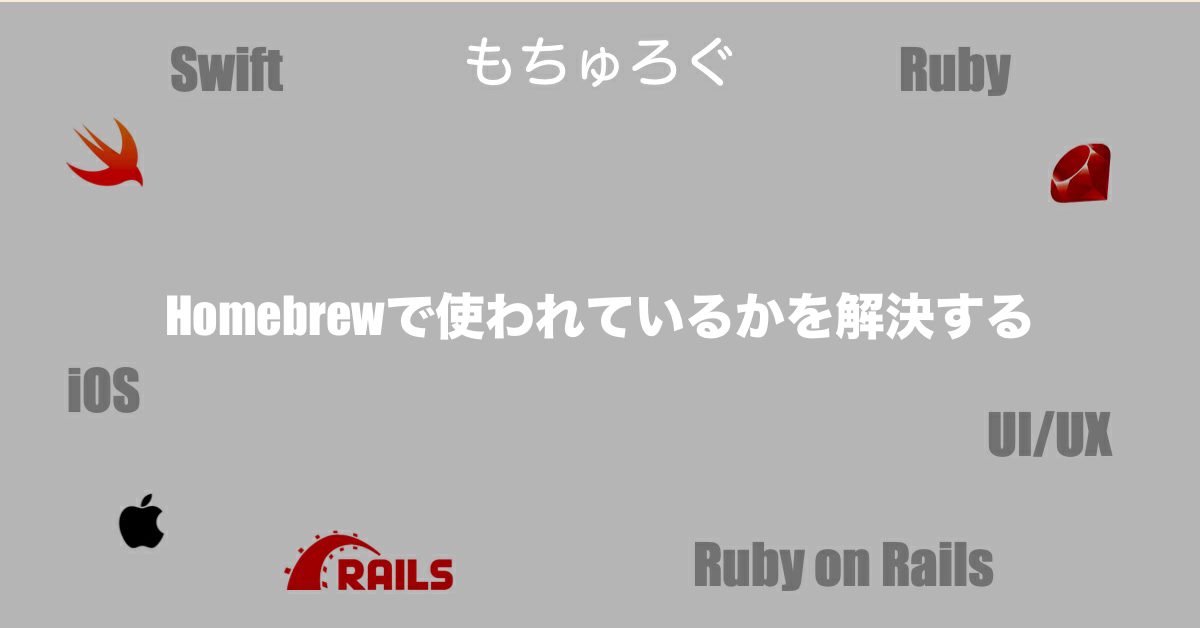
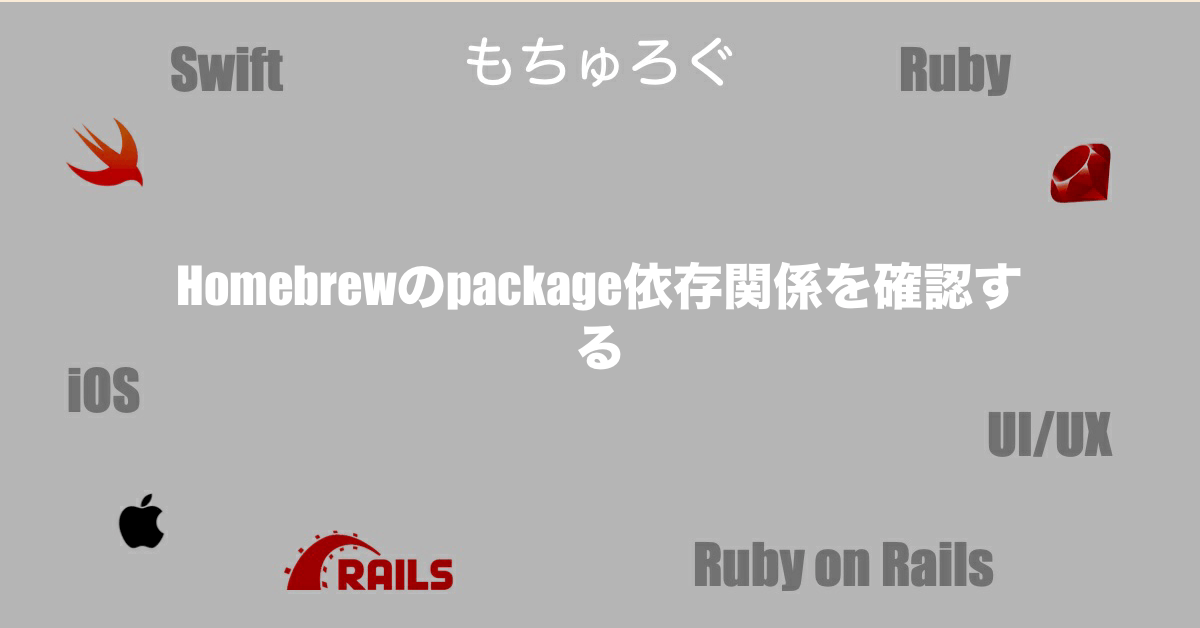
Deploy:

Changed region(s): [[0.1233, 0.3933, 0.8633, 0.6051]]

diff --git a/docs/mac/homebrew/mac-homebrew-uses-installed.html b/docs/mac/homebrew/mac-homebrew-uses-installed.html
@@ -11,12 +11,12 @@
 
 
     
-      <title>Homebrewで使われているかを解決する - もちゅろぐ</title>
+      <title>Homebrewのpackage依存関係を確認する - もちゅろぐ</title>
     
 
     <!-- Begin Jekyll SEO tag v2.5.0 -->
 <meta name="generator" content="Jekyll v3.8.5" />
-<meta property="og:title" content="Homebrewで使われているかを解決する" />
+<meta property="og:title" content="Homebrewのpackage依存関係を確認する" />
 <meta property="og:locale" content="ja_JP" />
 <meta name="description" content="長いことHomebrewに色々とインストールしてると、たまにもう使っていないフォーミュラ（パッケージ）を削除したいなと思いませんか？ $ brew list -l で一覧出して眺めて、「もうこれは使っていないな」と分かるパッケージは消していきますが、 「これ何で入れたんだっけ？」と思うパッケージが結構います。" />
 <meta property="og:description" content="長いことHomebrewに色々とインストールしてると、たまにもう使っていないフォーミュラ（パッケージ）を削除したいなと思いませんか？ $ brew list -l で一覧出して眺めて、「もうこれは使っていないな」と分かるパッケージは消していきますが、 「これ何で入れたんだっけ？」と思うパッケージが結構います。" />
@@ -29,13 +29,13 @@
 <meta name="twitter:card" content="summary_large_image" />
 <meta name="twitter:site" content="@mothule" />
 <script type="application/ld+json">
-{"image":"https://blog.mothule.com/assets/images/2019-07-30-mac-homebrew-uses-installed.png","url":"https://blog.mothule.com/mac/homebrew/mac-homebrew-uses-installed","headline":"Homebrewで使われているかを解決する","dateModified":"2020-02-02T22:50:43+09:00","datePublished":"2019-07-30T00:00:00+09:00","description":"長いことHomebrewに色々とインストールしてると、たまにもう使っていないフォーミュラ（パッケージ）を削除したいなと思いませんか？ $ brew list -l で一覧出して眺めて、「もうこれは使っていないな」と分かるパッケージは消していきますが、 「これ何で入れたんだっけ？」と思うパッケージが結構います。","mainEntityOfPage":{"@type":"WebPage","@id":"https://blog.mothule.com/mac/homebrew/mac-homebrew-uses-installed"},"@type":"BlogPosting","@context":"http://schema.org"}</script>
+{"image":"https://blog.mothule.com/assets/images/2019-07-30-mac-homebrew-uses-installed.png","url":"https://blog.mothule.com/mac/homebrew/mac-homebrew-uses-installed","headline":"Homebrewのpackage依存関係を確認する","dateModified":"2020-04-19T17:06:30+09:00","datePublished":"2019-07-30T00:00:00+09:00","description":"長いことHomebrewに色々とインストールしてると、たまにもう使っていないフォーミュラ（パッケージ）を削除したいなと思いませんか？ $ brew list -l で一覧出して眺めて、「もうこれは使っていないな」と分かるパッケージは消していきますが、 「これ何で入れたんだっけ？」と思うパッケージが結構います。","mainEntityOfPage":{"@type":"WebPage","@id":"https://blog.mothule.com/mac/homebrew/mac-homebrew-uses-installed"},"@type":"BlogPosting","@context":"http://schema.org"}</script>
 <!-- End Jekyll SEO tag -->
 
 
     
     
-    <meta name="twitter:title" content="Homebrewで使われているかを解決する">
+    <meta name="twitter:title" content="Homebrewのpackage依存関係を確認する">
     <meta name="twitter:description" content="長いことHomebrewに色々とインストールしてると、たまにもう使っていないフォーミュラ（パッケージ）を削除したいなと思いませんか？$ brew list -l で一覧出して眺めて、「もうこれは使っていないな」と分かるパッケージは消していきますが、「これ何で入れたんだっけ？」と思うパッケージが結構います。">
     <meta name="twitter:image:src" content="https://blog.mothule.com/assets/images/2019-07-30-mac-homebrew-uses-installed.png">
 
@@ -142,7 +142,7 @@
         
         
           <li>
-            Homebrewで使われているかを解決する
+            Homebrewのpackage依存関係を確認する
           </li>
         
       
@@ -156,12 +156,12 @@
 
   
     <div class="eye-catch">
-      <img style="width: 100%; object-fix: contain;" src="/assets/images/2019-07-30-mac-homebrew-uses-installed.png" alt="Homebrewで使われているかを解決する">
+      <img style="width: 100%; object-fix: contain;" src="/assets/images/2019-07-30-mac-homebrew-uses-installed.png" alt="Homebrewのpackage依存関係を確認する">
     </div>
   
 
   <div class="post-content-title border-bottom mb-4">
-    <h1>Homebrewで使われているかを解決する</h1>
+    <h1>Homebrewのpackage依存関係を確認する</h1>
 
     <div class="post-content-tags">
       <ul class="list-inline">
@@ -178,8 +178,28 @@
   <div class="post-content-toc">
     <p>Table of Contents</p>
     <ul>
-  <li><a href="#結論">結論</a></li>
-  <li><a href="#使い方">使い方</a></li>
+  <li><a href="#brew-lsでインストールしてるパッケージを確認">brew lsでインストールしてるパッケージを確認</a>
+    <ul>
+      <li><a href="#-lオプションでリスト表示にする">-lオプションでリスト表示にする</a></li>
+    </ul>
+  </li>
+  <li><a href="#brew-depsで依存してるパッケージを確認">brew depsで依存してるパッケージを確認</a>
+    <ul>
+      <li><a href="#treeオプションでツリー構造で依存関係を表示">–treeオプションでツリー構造で依存関係を表示</a></li>
+      <li><a href="#full-nameオプションで具体的な名前を表示">–full-nameオプションで具体的な名前を表示</a></li>
+      <li><a href="#オプションは組み合わせ可能">オプションは組み合わせ可能</a></li>
+    </ul>
+  </li>
+  <li><a href="#brew-usesで依存されてるパッケージを確認">brew usesで依存されてるパッケージを確認</a>
+    <ul>
+      <li><a href="#パッケージ依存をインストール済みに限定する">パッケージ依存をインストール済みに限定する</a></li>
+    </ul>
+  </li>
+  <li><a href="#brewの依存関係を確認できるコマンド整理">brewの依存関係を確認できるコマンド整理</a>
+    <ul>
+      <li><a href="#最後にpackageではなくformula">最後にPackageではなくFormula</a></li>
+    </ul>
+  </li>
 </ul>
   </div>
   <section>
@@ -187,20 +207,181 @@
 <code class="highlighter-rouge">$ brew list -l</code> で一覧出して眺めて、「もうこれは使っていないな」と分かるパッケージは消していきますが、
 「これ何で入れたんだっけ？」と思うパッケージが結構います。</p>
 
-<h2 id="結論">結論</h2>
-<p>その場合は次のコマンドでどのパッケージで使われているのか分かります。</p>
+<h2 id="brew-lsでインストールしてるパッケージを確認">brew lsでインストールしてるパッケージを確認</h2>
 
-<p><code class="highlighter-rouge">$ brew uses --installed &lt;formula&gt;</code></p>
+<p>まずは自分の環境にインストールされているパッケージ一覧を確認してみます。<br />
+インストール済みパッケージは、<code class="highlighter-rouge">brew list</code>コマンドで確認することができてフォーマットは次の通りです。</p>
 
-<h2 id="使い方">使い方</h2>
+<p><code class="highlighter-rouge">Usage: brew list, ls [options] [formula]</code></p>
 
-<p>例えば自分の環境で <code class="highlighter-rouge">python</code> だと</p>
+<p><code class="highlighter-rouge">brew list</code>や<code class="highlighter-rouge">brew ls</code>でインストール済みパッケージを表示します。</p>
 
-<div class="language-sh highlighter-rouge"><div class="highlight"><pre class="highlight"><code><span class="nv">$ </span>brew uses <span class="nt">--installed</span> python
-awscli                                       cairo                                        glib                                         gobject-introspection                        harfbuzz                                     httpie                                       pango                                        vim
+<p>他にも<code class="highlighter-rouge">brew ls</code>に機能が備わっていますが、この記事のテーマから外れるので詳細は省きます。</p>
+
+<div class="language-sh highlighter-rouge"><div class="highlight"><pre class="highlight"><code><span class="nv">$ </span>brew list
+apr				carthage			fribidi				gobject-introspection		jpeg				libvterm			msgpack				pcre				pyenv				selenium-server-standalone	xcparse
+apr-util			chisel				fzf				graphite2			jq				libyaml				mysql@5.6			pcre2				python				sqlite				xctool
+argon2				circleci			gd				graphviz			lame				libzip				neovim				perl				python@2			the_silver_searcher		xvid
+aspell				cmake				gdbm				harfbuzz			libffi				lua				nginx				phantomjs			python@3.8			tig				xz
+autoconf			ctags				gettext				heroku				libpng				luajit				node				php				rbenv				tree				yarn
+automake			curl				git				heroku-node			libpq				lzo				nvm				pixman				rbspy				unibilium
+awscli				ffmpeg				git-flow			httpie				libsodium			mas				oniguruma			pkg-config			readline			unixodbc
+bash				firebase-cli			glib				hugo				libtermkey			mcrypt				openssl				plantuml			redis				vim
+bat				fontconfig			gmp				icu4c				libtiff				mhash				openssl@1.1			pngpaste			rsync				webp
+bitrise				freetds				gnu-getopt			imagemagick			libtool				mkcert				pango				postgresql			ruby				wget
+cairo				freetype			gnu-sed				jemalloc			libuv				mono				parallel			pstree				ruby-build			x264
 </code></pre></div></div>
 
-<p>のようにpythonを使っている一覧が並びます。</p>
+<h3 id="-lオプションでリスト表示にする">-lオプションでリスト表示にする</h3>
+
+<p><code class="highlighter-rouge">-l</code>オプションでAZ順のリスト表示になります。<br />
+ブログで全部表示すると量が多いので一部となります。</p>
+
+<div class="language-sh highlighter-rouge"><div class="highlight"><pre class="highlight"><code><span class="nv">$ </span>brew list <span class="nt">-l</span>
+total 0
+drwxr-xr-x  3 mothule  admin   96 Jul  1  2018 apr
+drwxr-xr-x  3 mothule  admin   96 Jul  1  2018 apr-util
+drwxr-xr-x  3 mothule  admin   96 Jul  1  2018 argon2
+drwxr-xr-x  3 mothule  admin   96 Jul  1  2018 aspell
+drwxr-xr-x  3 mothule  admin   96 Mar  1  2017 autoconf
+...
+drwxr-xr-x  3 mothule  staff   96 Jul 22  2019 vim
+drwxr-xr-x  4 mothule  admin  128 Jul  1  2018 webp
+drwxr-xr-x  3 mothule  admin   96 Aug 14  2017 wget
+drwxr-xr-x  3 mothule  admin   96 Sep 20  2017 x264
+drwxr-xr-x  3 mothule  admin   96 Apr 15 14:38 xcparse
+drwxr-xr-x  3 mothule  admin   96 Mar 30  2017 xctool
+drwxr-xr-x  3 mothule  admin   96 Sep 20  2017 xvid
+drwxr-xr-x  3 mothule  admin   96 Mar  5  2019 xz
+drwxr-xr-x  3 mothule  admin   96 Jul  1  2018 yarn
+</code></pre></div></div>
+
+<h2 id="brew-depsで依存してるパッケージを確認">brew depsで依存してるパッケージを確認</h2>
+
+<p><code class="highlighter-rouge">brew deps</code>コマンドで渡したパッケージが、どのパッケージを使っているのか確認することができます。
+フォーマットは次の通りです。</p>
+
+<p><code class="highlighter-rouge">Usage: brew deps [options] [formula]</code></p>
+
+<p>例えば下記はRubyバージョン管理パッケージであるrbenvがどのパッケージを使っているのか確認した結果になります。</p>
+
+<div class="language-sh highlighter-rouge"><div class="highlight"><pre class="highlight"><code><span class="nv">$ </span>brew deps rbenv
+autoconf
+openssl
+pkg-config
+ruby-build
+</code></pre></div></div>
+
+<h3 id="treeオプションでツリー構造で依存関係を表示">–treeオプションでツリー構造で依存関係を表示</h3>
+
+<p><code class="highlighter-rouge">brew deps</code>に<code class="highlighter-rouge">--tree</code>オプションを渡すことで依存パッケージをツリー形式で表示することができます。</p>
+
+<div class="language-sh highlighter-rouge"><div class="highlight"><pre class="highlight"><code><span class="nv">$ </span>brew deps <span class="nt">--tree</span> rbenv
+rbenv
+├── autoconf
+├── openssl
+├── pkg-config
+└── ruby-build
+    ├── autoconf
+    ├── pkg-config
+    └── readline
+</code></pre></div></div>
+<p>ツリー形式で表示することで<code class="highlighter-rouge">ruby-build</code>はさらに3つのパッケージに依存してることが分かります。</p>
+
+<h3 id="full-nameオプションで具体的な名前を表示">–full-nameオプションで具体的な名前を表示</h3>
+
+<p><code class="highlighter-rouge">brew deps</code>に<code class="highlighter-rouge">--full-name</code>オプションを渡すことで省略表示されているパッケージを実際の名前で表示することが出来ます。</p>
+
+<div class="language-sh highlighter-rouge"><div class="highlight"><pre class="highlight"><code><span class="nv">$ </span>brew deps <span class="nt">--full-name</span> rbenv
+autoconf
+openssl@1.1
+pkg-config
+ruby-build
+</code></pre></div></div>
+
+<p>このように<code class="highlighter-rouge">openssl</code>が1.1バージョンを使っていることが分かります。</p>
+
+<h3 id="オプションは組み合わせ可能">オプションは組み合わせ可能</h3>
+
+<p>オプションは複数使うことで同時に複数効果を得られます。<br />
+次の例は<code class="highlighter-rouge">--full-name</code>と<code class="highlighter-rouge">--tree</code>を使った結果になります。</p>
+
+<div class="language-sh highlighter-rouge"><div class="highlight"><pre class="highlight"><code><span class="nv">$ </span>brew deps <span class="nt">--full-name</span> <span class="nt">--tree</span> rbenv
+rbenv
+├── autoconf
+├── openssl@1.1
+├── pkg-config
+└── ruby-build
+    ├── autoconf
+    ├── pkg-config
+    └── readline
+</code></pre></div></div>
+
+<h2 id="brew-usesで依存されてるパッケージを確認">brew usesで依存されてるパッケージを確認</h2>
+
+<p>先程<code class="highlighter-rouge">rbenv</code>が依存してるパッケージ一覧を確認しました。<br />
+では今度は逆にこの<code class="highlighter-rouge">rbenv</code>を使っているパッケージが存在するか調べてみましょう。
+<code class="highlighter-rouge">brew uses</code>コマンドを使うことで調べられます。フォーマットは次の通りです。</p>
+
+<p><code class="highlighter-rouge">Usage: brew uses [options] formula</code></p>
+
+<p>この<code class="highlighter-rouge">brew uses</code>コマンドで<code class="highlighter-rouge">rbenv</code>を使っているパッケージを調べた結果が次になります。</p>
+
+<div class="language-sh highlighter-rouge"><div class="highlight"><pre class="highlight"><code><span class="nv">$ </span>brew uses rbenv
+rbenv-aliases                     rbenv-bundler                     rbenv-communal-gems               rbenv-gemset                      rbenv-whatis
+rbenv-binstubs                    rbenv-bundler-ruby-version        rbenv-ctags                       rbenv-use
+rbenv-bundle-exec                 rbenv-chefdk                      rbenv-default-gems                rbenv-vars
+</code></pre></div></div>
+
+<p><code class="highlighter-rouge">rbenv</code>のプラグインらしきものが並びますね。</p>
+
+<h3 id="パッケージ依存をインストール済みに限定する">パッケージ依存をインストール済みに限定する</h3>
+<p><code class="highlighter-rouge">brew uses</code>コマンドはデフォルトでは<code class="highlighter-rouge">Homebrew</code>で管理されている全てのパッケージが検索対象となります。<br />
+<strong>これを<code class="highlighter-rouge">--installed</code>オプションをつけることで自分のインストール済みに制限できます。</strong><br />
+このオプションをつけてもう一度<code class="highlighter-rouge">brew uses rbenv</code>を実行してみます。</p>
+
+<div class="language-sh highlighter-rouge"><div class="highlight"><pre class="highlight"><code><span class="nv">$ </span>brew uses <span class="nt">--installed</span> rbenv
+
+</code></pre></div></div>
+
+<p>今度は結果が空になりました。これはインストール済みパッケージには、<strong><code class="highlighter-rouge">rbenv</code>を使ったパッケージがないことを表しています。</strong></p>
+
+<h2 id="brewの依存関係を確認できるコマンド整理">brewの依存関係を確認できるコマンド整理</h2>
+
+<p>「依存してる」「依存されてる」と「brew deps」「brew uses」ちょっと混乱してしまい、実際に使う時に「どっちがどっちだっけ？」なりそうです。<br />
+なので最後に整理します。</p>
+
+<table>
+  <thead>
+    <tr>
+      <th>目的</th>
+      <th>コマンド</th>
+      <th>便利なオプション</th>
+    </tr>
+  </thead>
+  <tbody>
+    <tr>
+      <td>何が入ってる？</td>
+      <td><code class="highlighter-rouge">brew ls</code></td>
+      <td><code class="highlighter-rouge">-l</code></td>
+    </tr>
+    <tr>
+      <td>これ誰が使ってる？</td>
+      <td><code class="highlighter-rouge">brew uses</code></td>
+      <td><code class="highlighter-rouge">--installed</code></td>
+    </tr>
+    <tr>
+      <td>これ何が必要？</td>
+      <td><code class="highlighter-rouge">brew deps</code></td>
+      <td><code class="highlighter-rouge">--tree</code></td>
+    </tr>
+  </tbody>
+</table>
+
+<h3 id="最後にpackageではなくformula">最後にPackageではなくFormula</h3>
+<p>最後に、パッケージ(package)という用語で説明していますが、HomebrewではパッケージではなくFormula(フォーミュラ)といいます。製法・調合法という意味です。Homebrew(home-brew)が自家醸造酒という意味なのでビール製法って意味ですね。</p>
+
+<p>Homebrewに不慣れな方は、パッケージという用語で検索が多いのでニーズに合わせてこちらの用語を使いました。</p>
 
   </section>
 

diff --git a/docs/page3/index.html b/docs/page3/index.html
@@ -484,9 +484,9 @@
 
   <div class="article thumbnail">
   <a href="/mac/homebrew/mac-homebrew-uses-installed">
-    <img src="/assets/images/2019-07-30-mac-homebrew-uses-installed.png" alt="Homebrewで使われているかを解決する" style="width: 340px; object-fit: contain;">
+    <img src="/assets/images/2019-07-30-mac-homebrew-uses-installed.png" alt="Homebrewのpackage依存関係を確認する" style="width: 340px; object-fit: contain;">
     <div class="caption">
-      <h2>Homebrewで使われているかを解決する</h2>
+      <h2>Homebrewのpackage依存関係を確認する</h2>
       <ul class="list-inline">
         <li class="list-inline-item secondary-text">2019-7-30</li>
         

diff --git a/docs/tags.html b/docs/tags.html
@@ -1524,7 +1524,7 @@
         
           <li>
             <a href="/mac/homebrew/mac-homebrew-uses-installed">
-              Homebrewで使われているかを解決する
+              Homebrewのpackage依存関係を確認する
             </a>
           </li>
         
@@ -1642,7 +1642,7 @@
         
           <li>
             <a href="/mac/homebrew/mac-homebrew-uses-installed">
-              Homebrewで使われているかを解決する
+              Homebrewのpackage依存関係を確認する
             </a>
           </li>
         

diff --git a/docs/mac/homebrew/mac-homebrew-how-to-downgrade.html b/docs/mac/homebrew/mac-homebrew-how-to-downgrade.html
@@ -769,7 +769,7 @@ tig: stable 2.4.1 <span class="o">(</span>bottled<span class="o">)</span>, HEAD
                 
                 
                 
-                    <li><h3><a href="/mac/homebrew/mac-homebrew-uses-installed">Homebrewで使われているかを解決する</a></h3></li>
+                    <li><h3><a href="/mac/homebrew/mac-homebrew-uses-installed">Homebrewのpackage依存関係を確認する</a></h3></li>
                     
                     
                 

diff --git a/docs/mac/homebrew/mac-homebrew-fix-readline-missmatch-version.html b/docs/mac/homebrew/mac-homebrew-fix-readline-missmatch-version.html
@@ -675,7 +675,7 @@ lrwxr-xr-x libreadline.dylib -&gt; libreadline.7.0.dylib
                 
                 
                 
-                    <li><h3><a href="/mac/homebrew/mac-homebrew-uses-installed">Homebrewで使われているかを解決する</a></h3></li>
+                    <li><h3><a href="/mac/homebrew/mac-homebrew-uses-installed">Homebrewのpackage依存関係を確認する</a></h3></li>
                     
                     
                 
